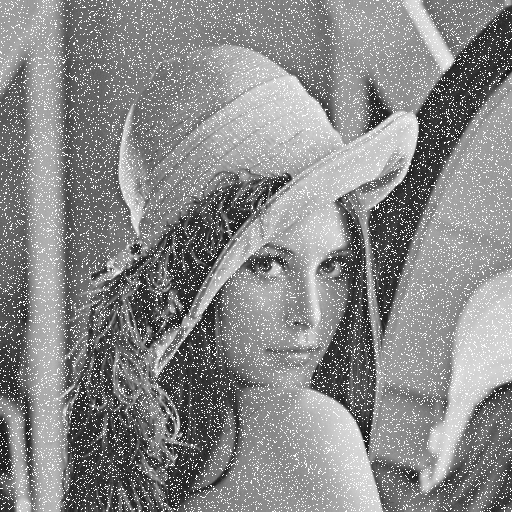
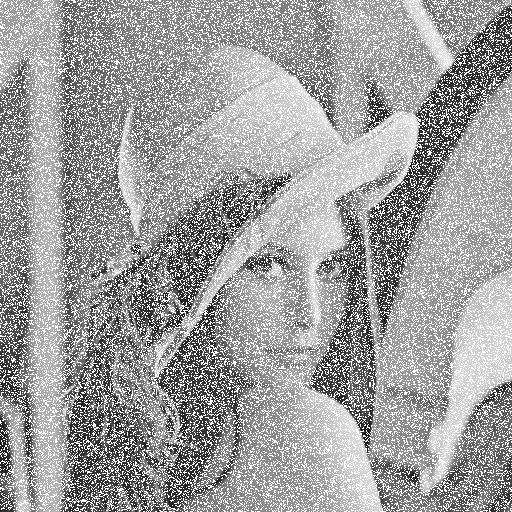
modify gamma and rayleigh noise display

Changed region(s): [[0.0, 0.0, 1.0, 1.0]]

diff --git a/main.py b/main.py
@@ -20,6 +20,11 @@ from crop import  *
 class Application(tk.Tk):
     def __init__(self):
         super().__init__()
+
+        self.noise_prob = None
+        self.a = None
+        self.b = None
+
         self.title("IMAGE RESTORATION")
         #self.geometry("550x550")
         self.configure(background='black')
@@ -117,7 +122,57 @@ class Application(tk.Tk):
         Image_Cropping_Button.pack(side=TOP, fill=BOTH)
 
 
+    #this is to get user noise input
+    def get_noise_parameter(self,noise_type):
+        if (noise_type == "salt" or noise_type == "peppers"):
+            self.noise_prob = float(self.my_prob_entry.get())
+
+        elif (noise_type == "rayleigh" or noise_type == "gamma"):
+            self.a = float((self.my_a_entry.get()).replace(',',''))
+            self.b = float((self.my_b_entry.get()).replace(',',''))
+
+        self.update()
+        self.input_window.destroy()
+
+    def get_noise_parameters(self, noise_type):
+        self.input_window = tk.Toplevel()
+        self.input_window.title("Noise Density")
+        if(noise_type == "salt" or noise_type == "peppers" ):
+            label = tk.Label(self.input_window, text=" Noise Parameters", font=(" ", 20))
+            label.grid(row=0, column=1)
+            probability_density = tk.Label(self.input_window, text="Probability:")
+            # width = tk.Label(self.input_window, text="weight:")
+            probability_density.grid(row=1, column=0, sticky=W)
+            # width.grid(row=2, column=0, sticky=W)
+            self.my_prob_entry = tk.Entry(self.input_window)
+            self.my_prob_entry.grid(row=1, column=1)
+
+            my_button = tk.Button(self.input_window, text="Submit", command= lambda:self.get_noise_parameter(noise_type))
+            my_button.grid(row=3, column=1)
+            self.wait_window(self.input_window)
+
+        elif(noise_type == "rayleigh" or noise_type == "gamma" ):
+
+            label = tk.Label(self.input_window, text=" Noise Parameters", font=(" ", 20))
+            label.grid(row=0, column=1)
+            a_label = tk.Label(self.input_window, text="Displacement a:")
+            b_label = tk.Label(self.input_window, text="Displacement b:")
+            a_label.grid(row=1, column=0, sticky=W)
+            b_label.grid(row=2, column=0, sticky=W)
+            self.my_a_entry = tk.Entry(self.input_window)
+            self.my_a_entry.grid(row=1, column=1)
+            self.my_b_entry = tk.Entry(self.input_window)
+            self.my_b_entry.grid(row=2, column=1)
+            my_button = tk.Button(self.input_window, text="Submit", command= lambda:self.get_noise_parameter(noise_type))
+            my_button.grid(row=3, column=1)
+            self.wait_window(self.input_window)
+
+
+
     def Salt_Noise(self):
+
+        self.get_noise_parameters("salt")
+
         self.noise_window = tk.Toplevel()
         self.noise_window.title("Salt Noise Image")
 
@@ -126,9 +181,9 @@ class Application(tk.Tk):
         cols = self.img.height()
 
         input_image = self.pilImage
-        prob = 0.1
+        #self.noise_prob = 0.2
         noise_salt = np.random.randint(0, 256, (rows, cols))
-        noise_salt = np.where(noise_salt < prob * 256, 255, 0)
+        noise_salt = np.where(noise_salt < self.noise_prob * 256, 255, 0)
         #input_image.astype("float")
         noise_salt.astype("float")
 
@@ -159,6 +214,8 @@ class Application(tk.Tk):
 
     def Peppers_Noise(self):
 
+        self.get_noise_parameters("peppers")
+
         self.noise_window = tk.Toplevel()
         self.noise_window.title("Peppers Noise Image")
 
@@ -167,9 +224,9 @@ class Application(tk.Tk):
         cols = self.img.height()
 
         input_image = self.pilImage
-        prob = 0.1
+        #prob = 0.1
         noise_pepper = np.random.randint(0, 256, (rows, cols))
-        noise_pepper = np.where(noise_pepper < prob * 256, -255, 0)
+        noise_pepper = np.where(noise_pepper < self.noise_prob * 256, -255, 0)
         #input_image.astype("float")
         noise_pepper.astype("float")
 
@@ -238,7 +295,9 @@ class Application(tk.Tk):
         Image_Cropping_Button.pack(side=TOP, fill=BOTH)
 
 
-    def Rayleigh_Noise(self):
+    def Rayleigh_Noise(self): #test with a = -19 and b = 466
+
+        self.get_noise_parameters("rayleigh")
         self.noise_window = tk.Toplevel()
         self.noise_window.title("Rayleigh Noise Image")
 
@@ -247,13 +306,13 @@ class Application(tk.Tk):
         cols = self.img.height()
         input_image = self.pilImage
 
-        a = -19  # mean=a+sqrt(pi*b/4)=0, variance=b*(4-pi)/4=pow(20,2), a=-38, b=1864
-        b = 466  # mean=0, variance=10, a=-19, b=466
+        a = self.a
+        b = self.b
+        #a = -19  # mean=a+sqrt(pi*b/4)=0, variance=b*(4-pi)/4=pow(20,2), a=-38, b=1864
+        #b = 466  # mean=0, variance=10, a=-19, b=466
         noise_rayleigh = a + np.power((-b * np.log(1 - np.random.rand(rows, cols))), 0.5)
-
         input_image_added_noise = input_image + noise_rayleigh
         input_image_added_noise = np.uint8(np.where(input_image_added_noise < 0, 0, np.where(input_image_added_noise > 255, 255, input_image_added_noise)))
-
 
         output_dir = 'Noise/'
         Rayleigh_noise_image = output_dir + 'Rayleigh_Noise' + ".png"
@@ -276,17 +335,21 @@ class Application(tk.Tk):
         Filter_Button = Button(self.noise_window, text="Select Filter", fg="blue", font=("", 20), command=self.rayleigh)
         Filter_Button.pack(side=TOP, fill=BOTH)
 
-    def Gamma_Noise(self):
+    def Gamma_Noise(self): #test with
+
+        self.get_noise_parameters("gamma")
+
         self.noise_window = tk.Toplevel()
         self.noise_window.title("Gamma Noise Image")
-
         np.random.seed(1)
         rows = self.img.width()
         cols = self.img.height()
         input_image = self.pilImage
 
-        a = 0.1  # mean=b/a=50, variance=sqrt(b/pow(a,2))=22.3
-        b = 5
+        #a = 0.1  # mean=b/a=50, variance=sqrt(b/pow(a,2))=22.3
+        #b = 5
+        a = self.a
+        b = int(self.b)
 
         noise_gamma = np.zeros((rows, cols))
         for j in range(b):
@@ -294,7 +357,6 @@ class Application(tk.Tk):
 
         input_image_added_noise = input_image + noise_gamma
         input_image_added_noise = np.uint8(np.where(input_image_added_noise < 0, 0, np.where(input_image_added_noise > 255, 255, input_image_added_noise)))
-
 
         output_dir = 'Noise/'
         Gamma_noise_image = output_dir + 'Gamma_Noise' + ".png"
